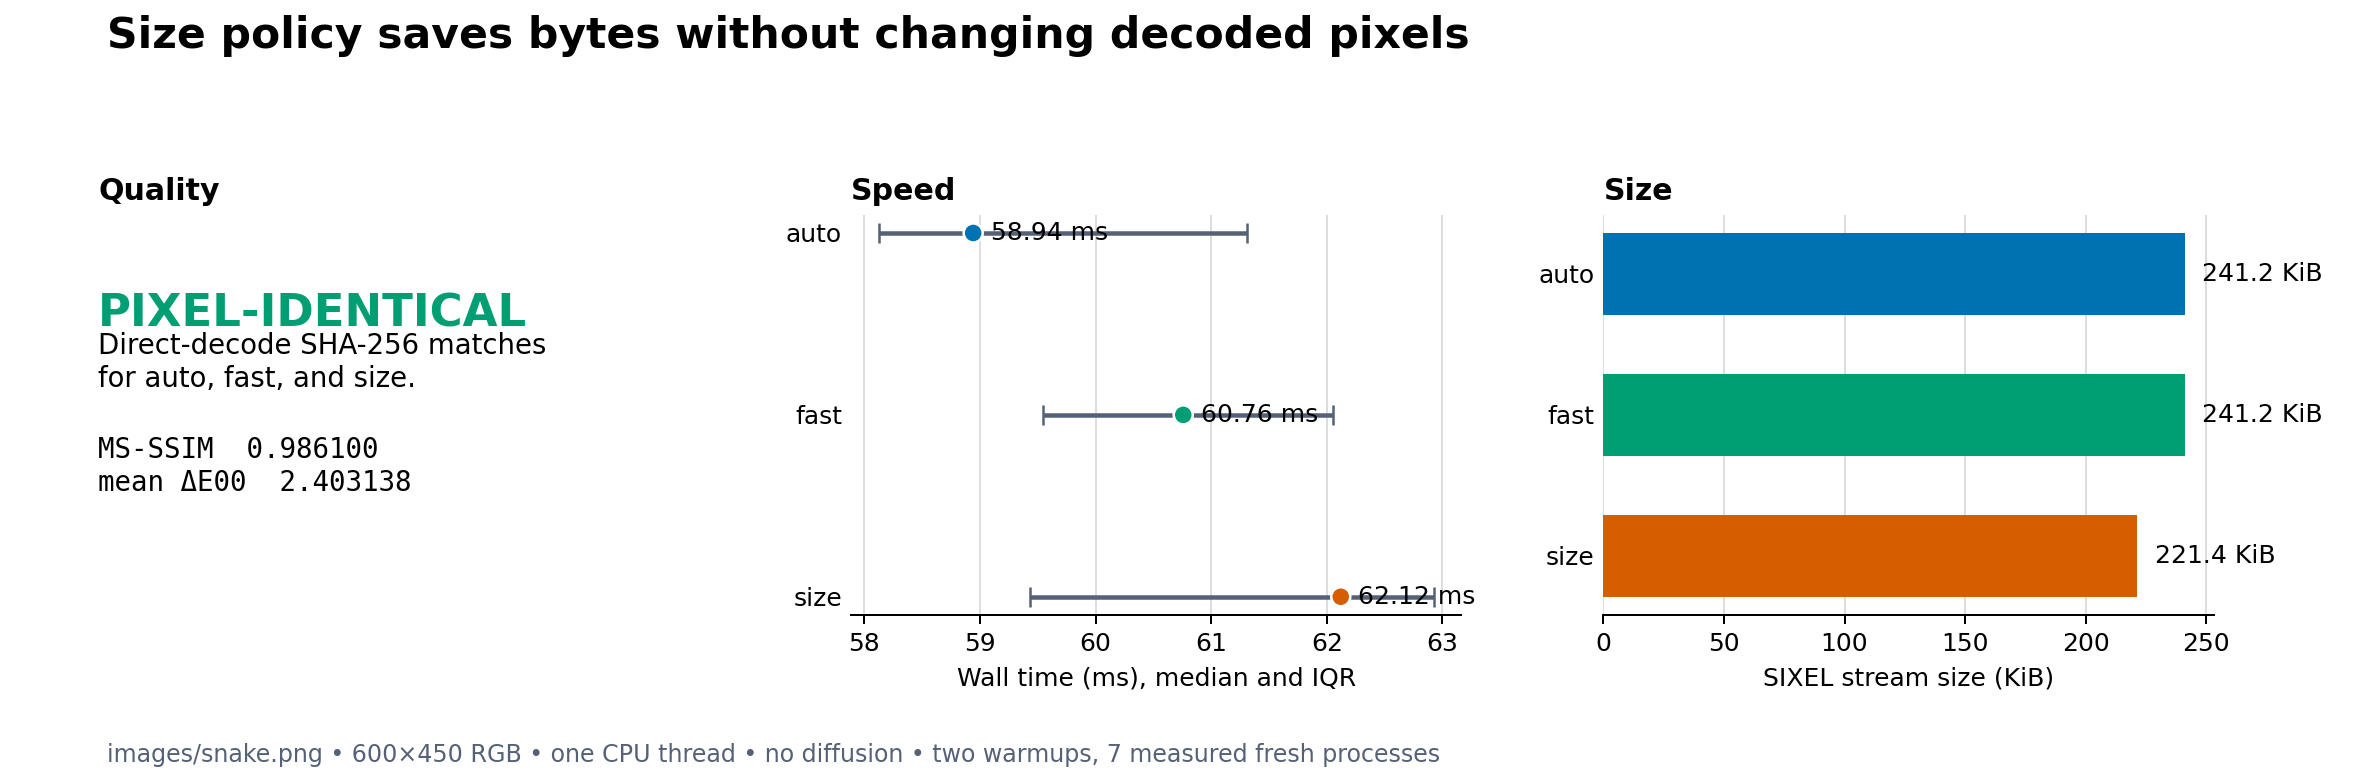
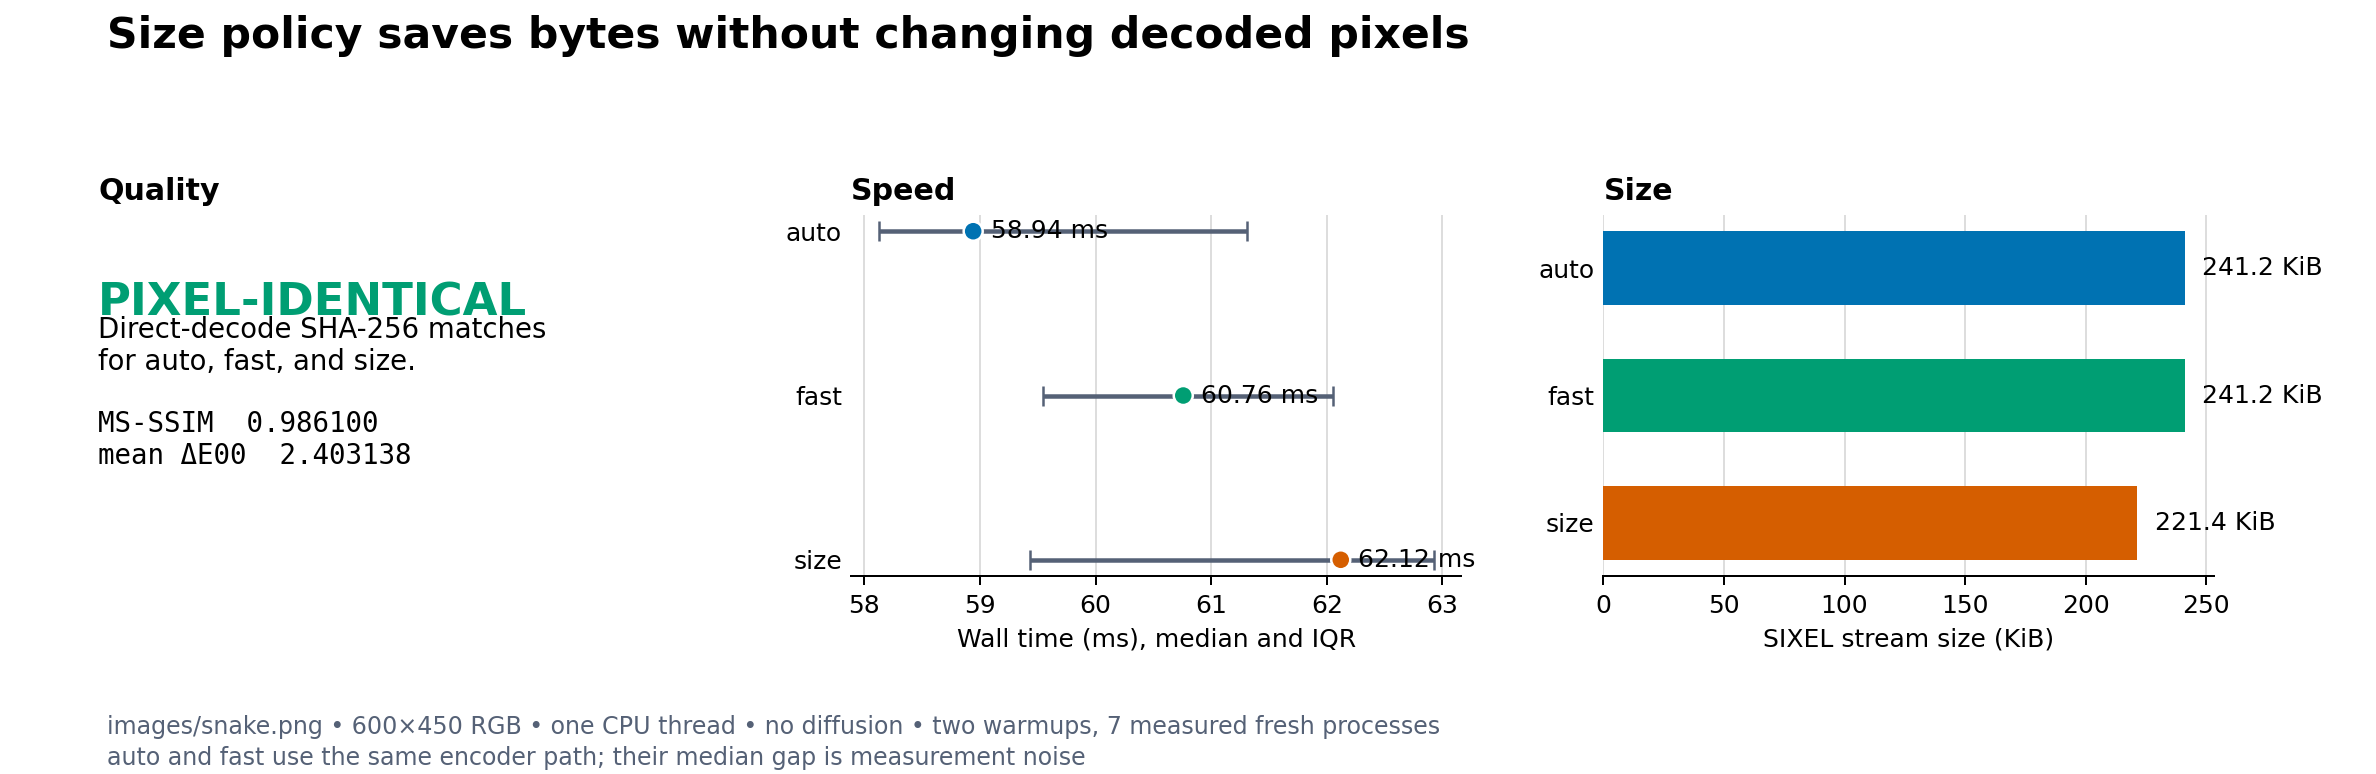
docs: clarify encode policy timing noise

diff --git a/tools/plot_encoding_mode_measurements.py b/tools/plot_encoding_mode_measurements.py
@@ -426,13 +426,16 @@ def plot_encode_policy(rows: Sequence[Mapping[str, object]], path: Path) -> None
     draw_size(axes[2], rows, "Size")
     figure.text(
         0.045,
-        0.015,
+        0.012,
         "images/snake.png • 600×450 RGB • one CPU thread • no diffusion • "
-        f"two warmups, {runs} measured fresh processes",
+        f"two warmups, {runs} measured fresh processes\n"
+        "auto and fast use the same encoder path; their median gap is "
+        "measurement noise",
         color="#556176",
         fontsize=9.5,
+        linespacing=1.35,
     )
-    figure.tight_layout(rect=(0.03, 0.07, 0.99, 0.90), w_pad=2.0)
+    figure.tight_layout(rect=(0.03, 0.12, 0.99, 0.90), w_pad=2.0)
     path.parent.mkdir(parents=True, exist_ok=True)
     figure.savefig(path, dpi=180, facecolor="white")
     plt.close(figure)

diff --git a/docs/functionality/encode-policy.md b/docs/functionality/encode-policy.md
@@ -43,7 +43,7 @@ The optimization is not a compressor applied after encoding; it changes the pain
 | `fast` | Preserves each color mask without the size-policy fill and repaint strategy. | Request the direct serialization path explicitly. |
 | `size` | Enables safe fill and repaint opportunities and skips some empty work in specialized paths. | Prefer smaller streams when the receiver or transport is the bottleneck. |
 
-`auto` is a policy name, not currently an image-adaptive choice between the other two modes. In the measurement below, `auto` and `fast` produced byte-identical streams. Code should nevertheless pass `fast` when that exact intent matters instead of relying on today's implementation of `auto`.
+`auto` is a policy name, not currently an image-adaptive choice between the other two modes. Both values take the same non-size encoder path, and the measurement below produced byte-identical streams. They are therefore not distinct performance modes in the current implementation: any observed timing difference between them is measurement noise. Code should nevertheless pass `fast` when that exact intent matters instead of relying on today's implementation of `auto`.
 
 Transparency is more nuanced than the original 2014 description. Current size-policy code checks whether a band can be filled safely and clips transparent-offset work at image boundaries; it does not categorically reject transparent input. The [alpha policy](../loader/alpha-policy.md) still owns whether a source pixel is composited or omitted, while `-E` only decides how the surviving masks are serialized.
 
@@ -53,15 +53,15 @@ The controlled comparison used the repository's 600 by 450 `images/snake.png` fi
 
 ![Quality identity, runtime, and SIXEL byte size for auto, fast, and size encoding policies](encode-policies/measurements/encode-policy-results.png)
 
-*Figure 3. The dots show median end-to-end time and the whiskers show the interquartile range. Size bars report exact stream bytes converted to KiB.*
+*Figure 3. The dots show observed median end-to-end time and the whiskers show the interquartile range. `auto` and `fast` use the same encoder path, so their separation is measurement noise rather than a policy effect. Size bars report exact stream bytes converted to KiB.*
 
-| Policy | MS-SSIM | Mean Delta E00 | Median time, IQR | SIXEL bytes |
+| Policy | MS-SSIM | Mean Delta E00 | Observed median time, IQR | SIXEL bytes |
 | --- | ---: | ---: | ---: | ---: |
 | `auto` | 0.986100 | 2.403138 | 58.941 ms, 58.123--61.306 | 247,009 |
 | `fast` | 0.986100 | 2.403138 | 60.758 ms, 59.548--62.056 | 247,009 |
 | `size` | 0.986100 | 2.403138 | 62.121 ms, 59.436--62.925 | 226,666 |
 
-All three direct-decode PNG files had the same SHA-256 digest, so quality was pixel-identical rather than merely equal after metric rounding. `auto` and `fast` also had the same encoded-stream digest. `size` reduced the stream by 20,343 bytes, or 8.24%, while its timing distribution overlapped the other policies. This single fixture demonstrates the intended invariant and one realistic saving; it is not a universal compression ratio or speed ranking.
+All three direct-decode PNG files had the same SHA-256 digest, so quality was pixel-identical rather than merely equal after metric rounding. `auto` and `fast` also had the same encoded-stream digest and execute the same encoder path; their 1.817 ms sample-median gap is measurement noise and must not be interpreted as a speed difference. `size` reduced the stream by 20,343 bytes, or 8.24%, while its timing distribution overlapped the other policies. This single fixture demonstrates the intended invariant and one realistic saving; it is not a universal compression ratio or speed ranking.
 
 ## Reproduce the comparison
 
